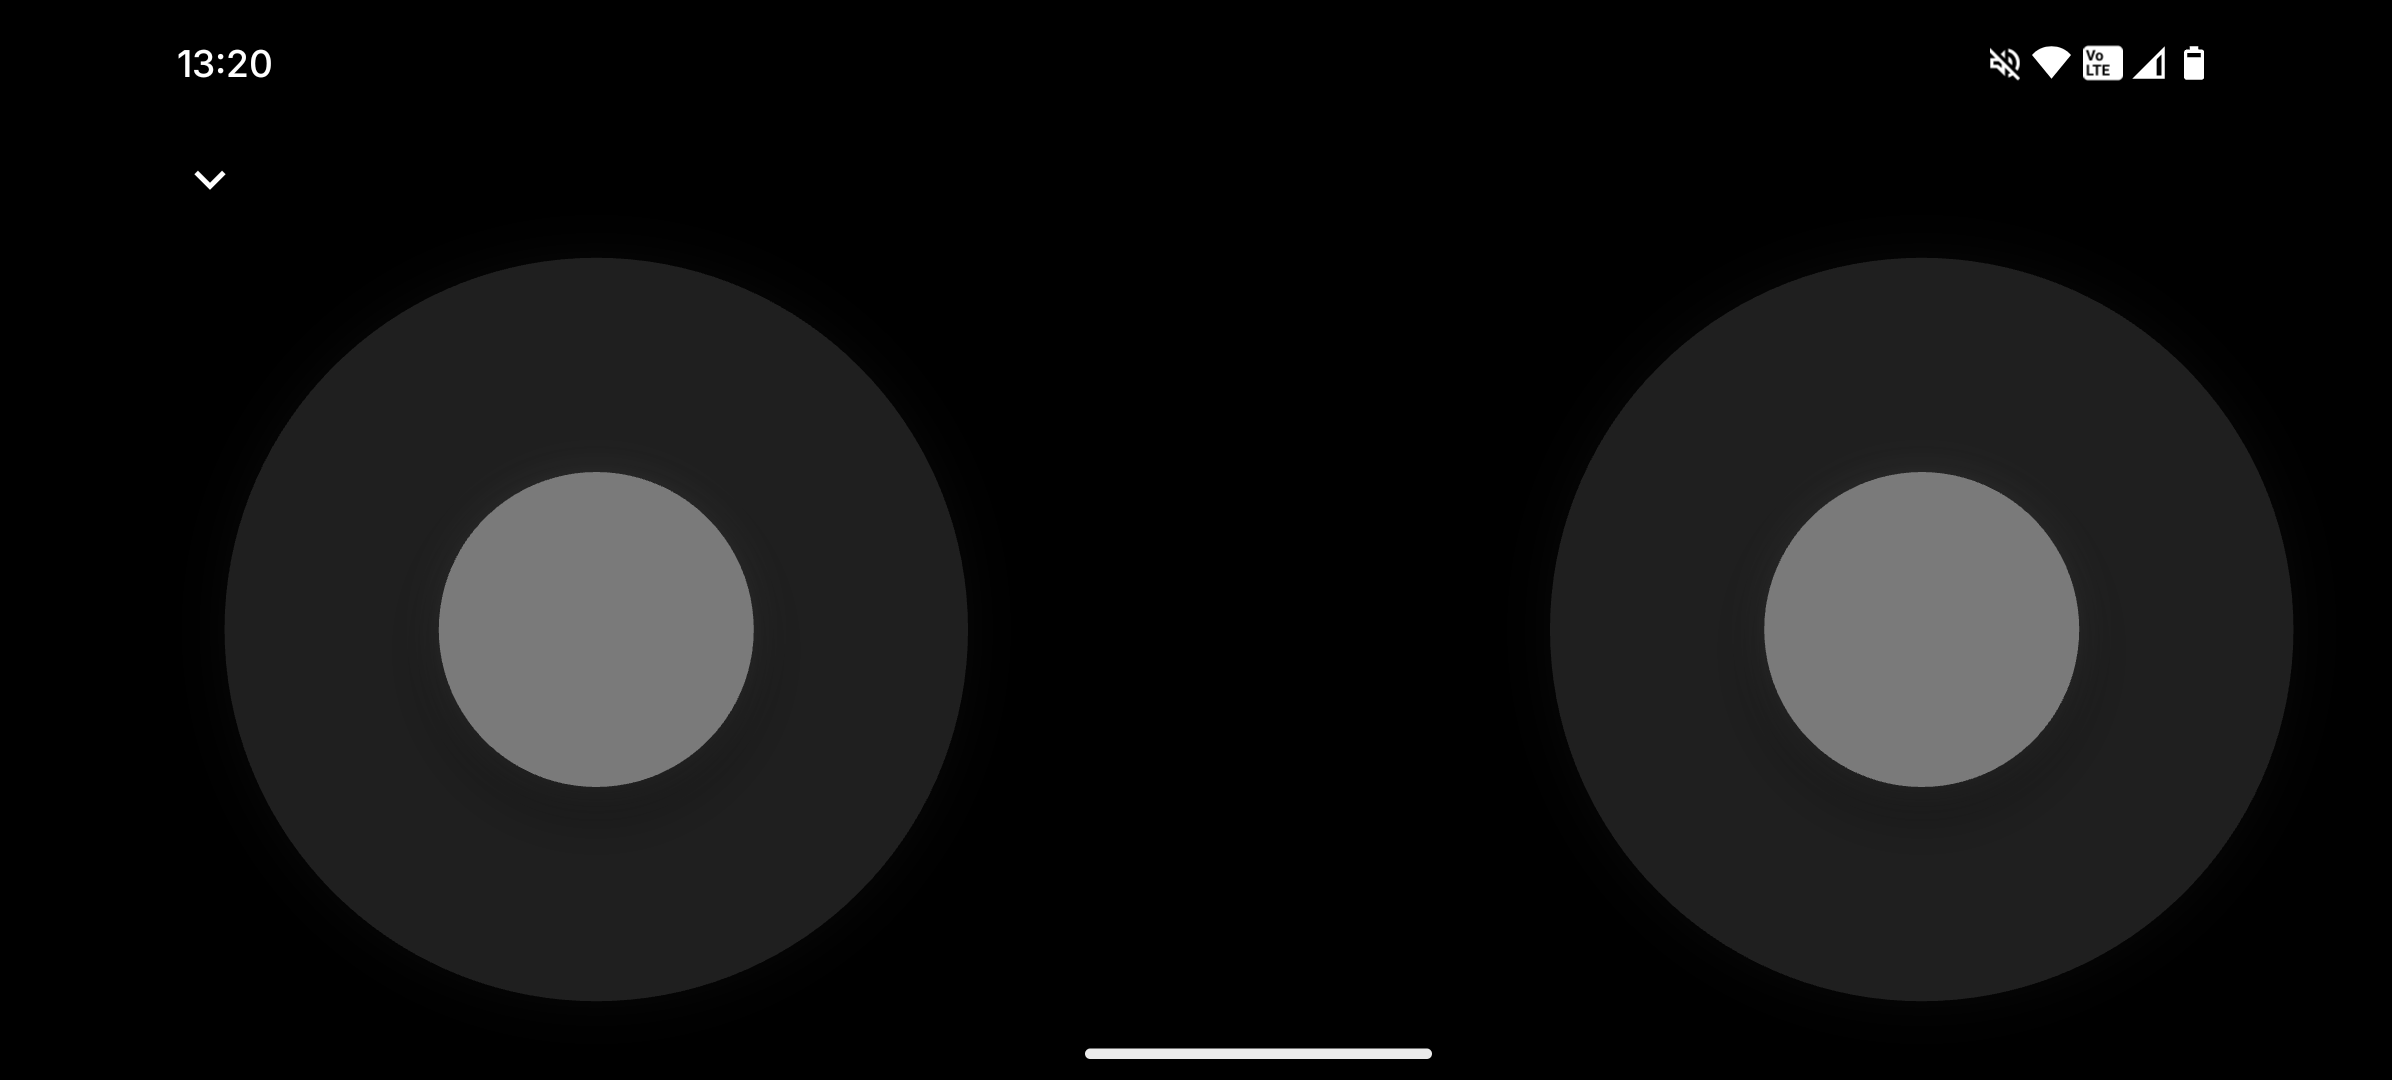
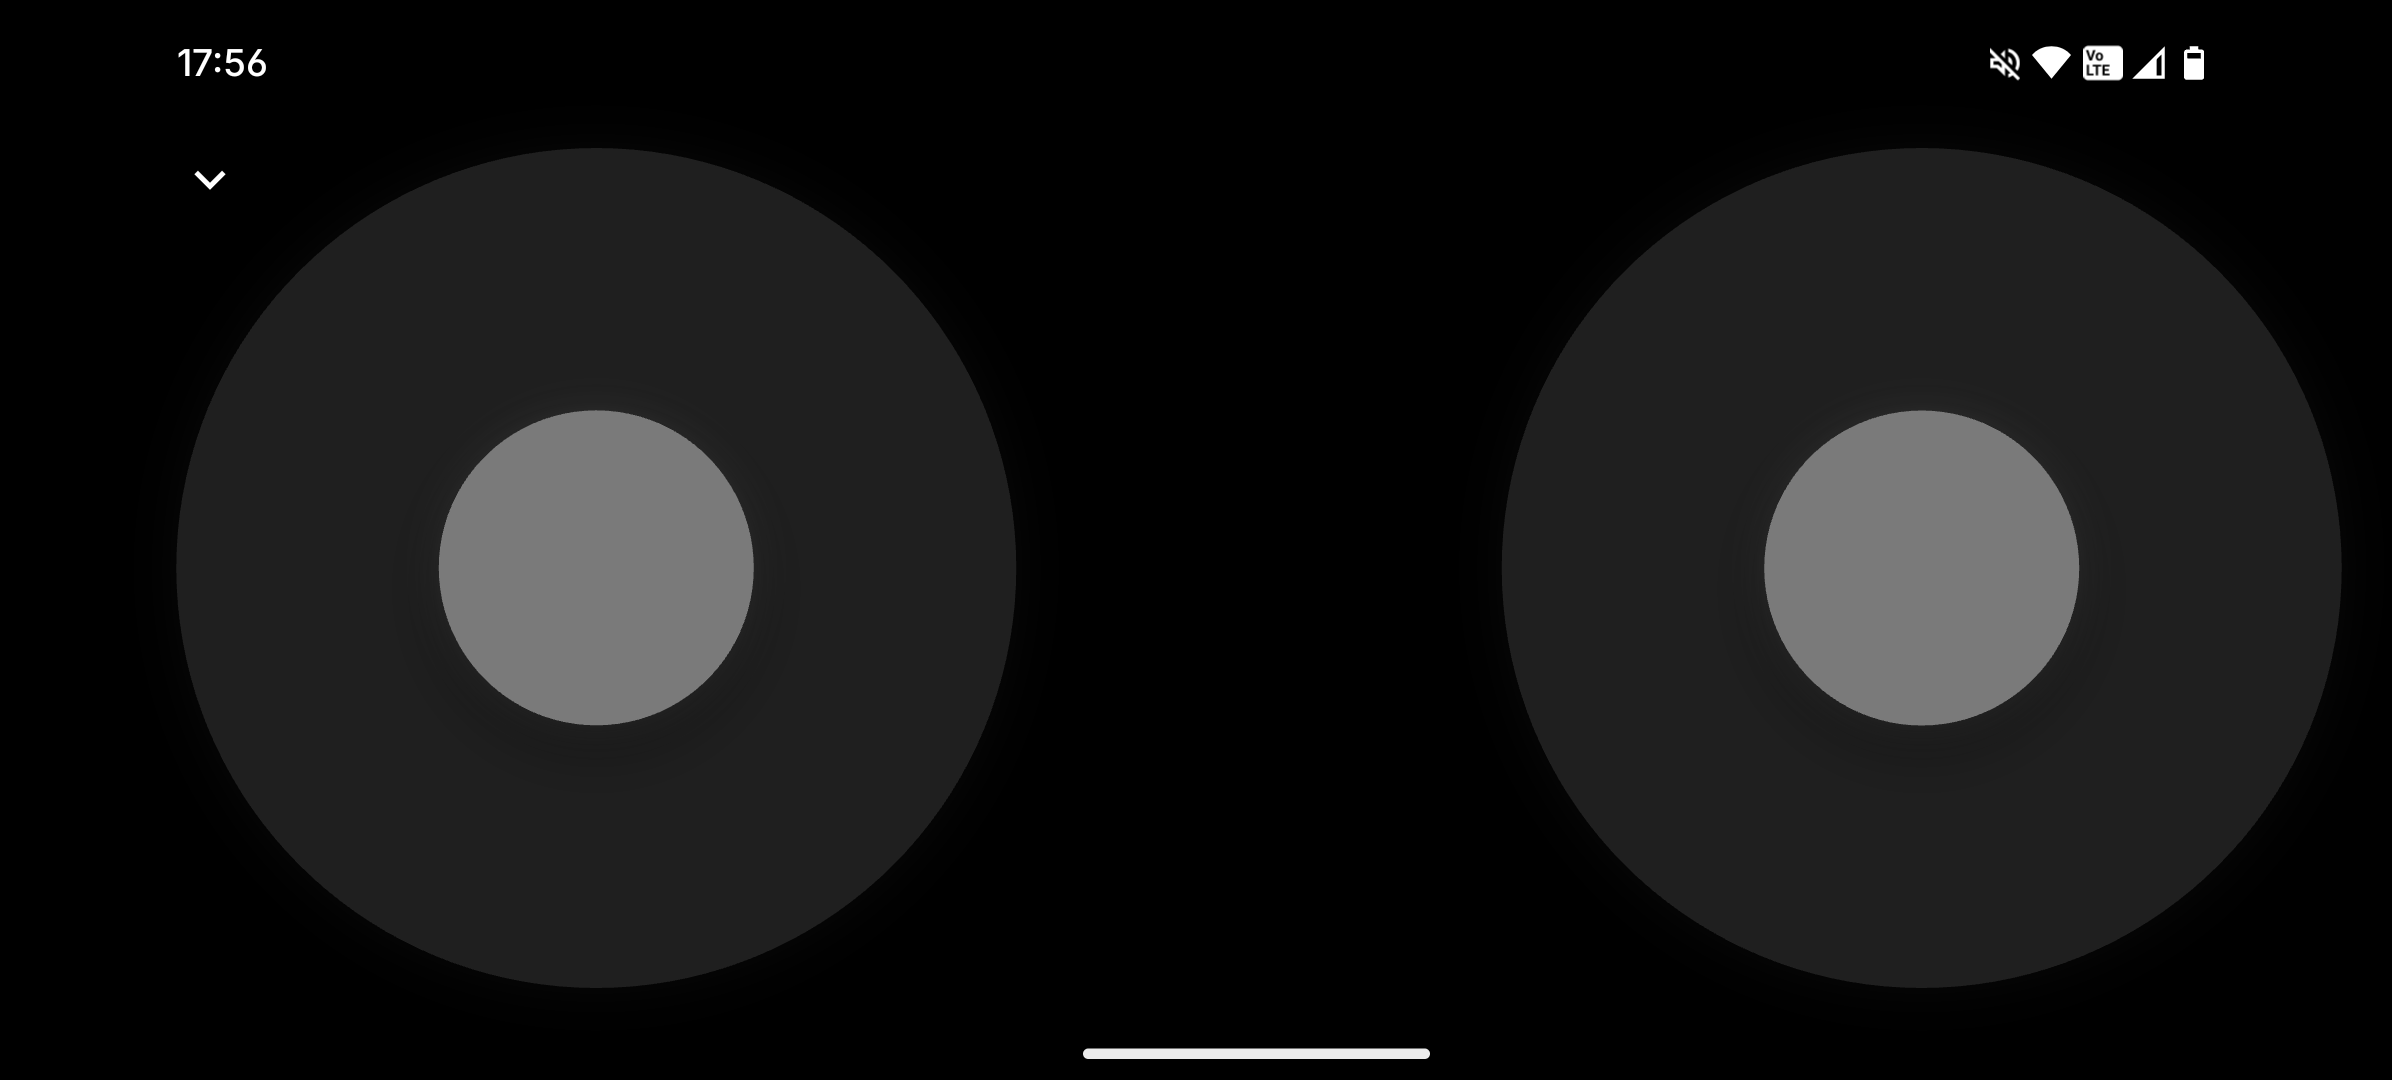
Refactor code structure for improved readability and maintainability

diff --git a/App/esp_rc_car/README.md b/App/esp_rc_car/README.md
@@ -4,6 +4,8 @@ This is the companion Flutter application for the ESP32-based RC car project. It
 
 ![App Screenshot](../AppWithoutDev.png)
 
+![Developer Panel Screenshot](../AppWithDev.png)
+
 ## Features
 
 - **Real-time Control**: Low-latency vehicle control via a WebSocket interface.